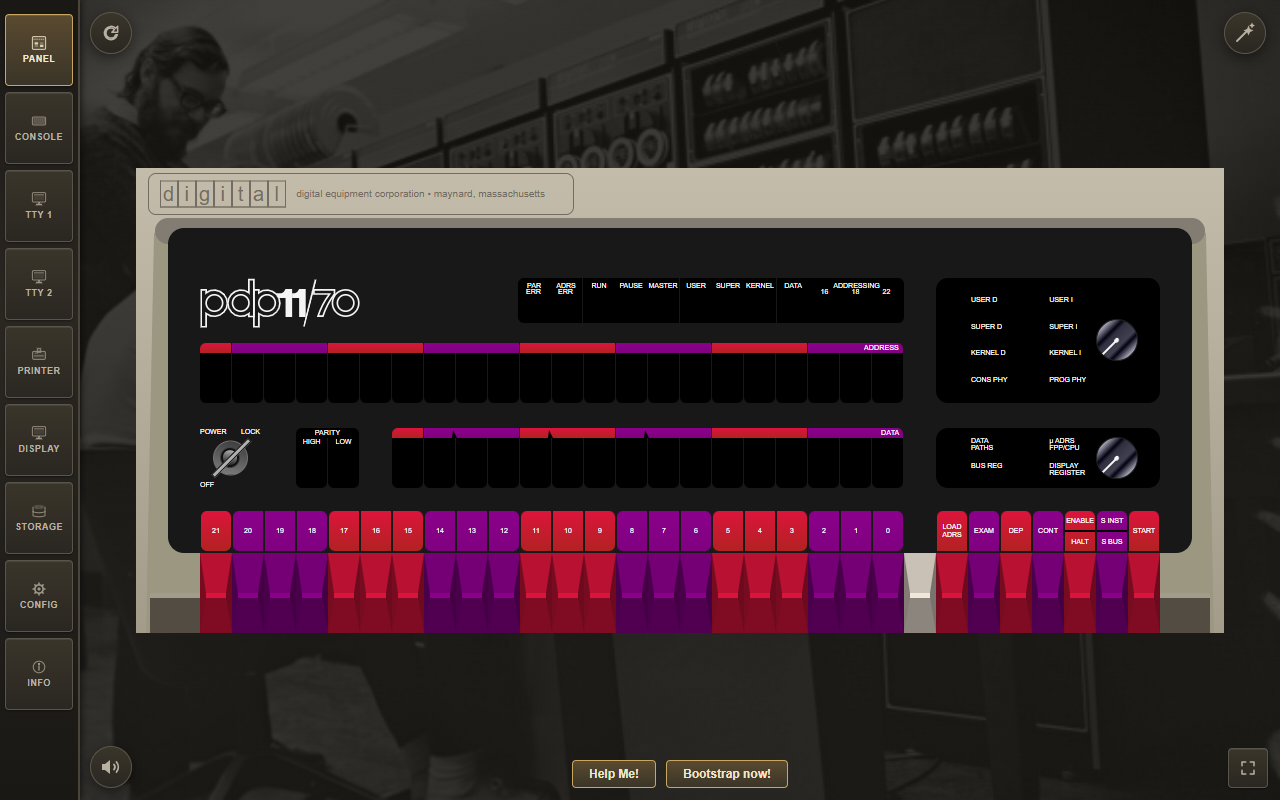
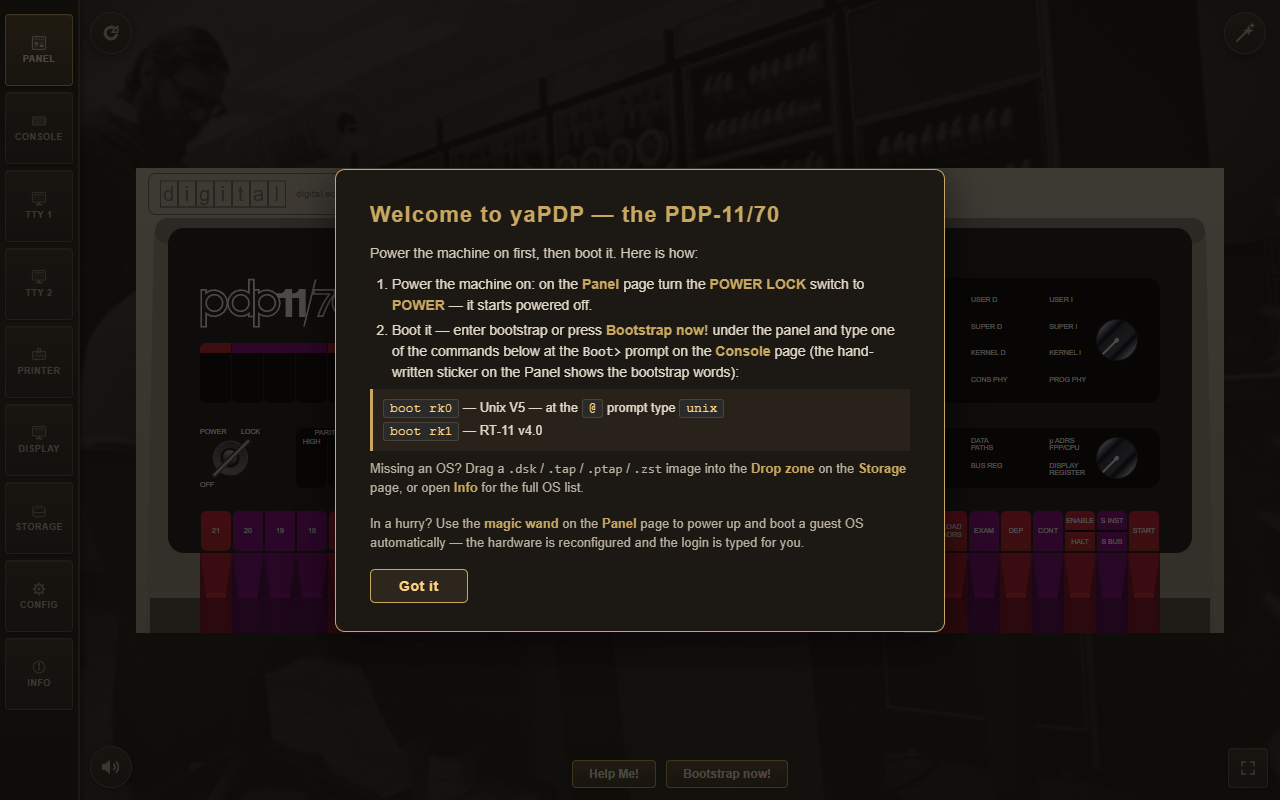
Fix onboarding screenshot capture in the manual generator
All scenario tabs in one puppeteer browser share localStorage for the
same origin, so the 'seen' flag written by earlier pages suppressed the
first-run overlay during the dialog screenshot pass. Explicitly remove
the flag when a first-run page is opened, and regenerate
dialog-onboarding.png so the user manual shows the actual onboarding
hint.

diff --git a/tools/screenshots-manual.js b/tools/screenshots-manual.js
@@ -322,7 +322,15 @@ async function captureDialogs(browser) {
         await page.evaluateOnNewDocument((seed) => {
             try {
                 localStorage.setItem("yapdp.config.v1", JSON.stringify(seed.cfg));
-                if (seed.onboarding) localStorage.setItem("yapdp.onboarding.v1", "done");
+                if (seed.onboarding) {
+                    localStorage.setItem("yapdp.onboarding.v1", "done");
+                } else {
+                    // First run: every scenario tab shares one browser-local
+                    // storage for the same origin, so a "seen" flag written by
+                    // an earlier page would otherwise suppress the overlay.
+                    // Explicitly drop it to guarantee a genuine first launch.
+                    localStorage.removeItem("yapdp.onboarding.v1");
+                }
             } catch (err) { /* ignore storage errors */ }
         }, { cfg, onboarding: !(opts && opts.firstRun) });
         await page.goto(`${BASE}/pdp11.html`, { waitUntil: "load", timeout: 60000 });
